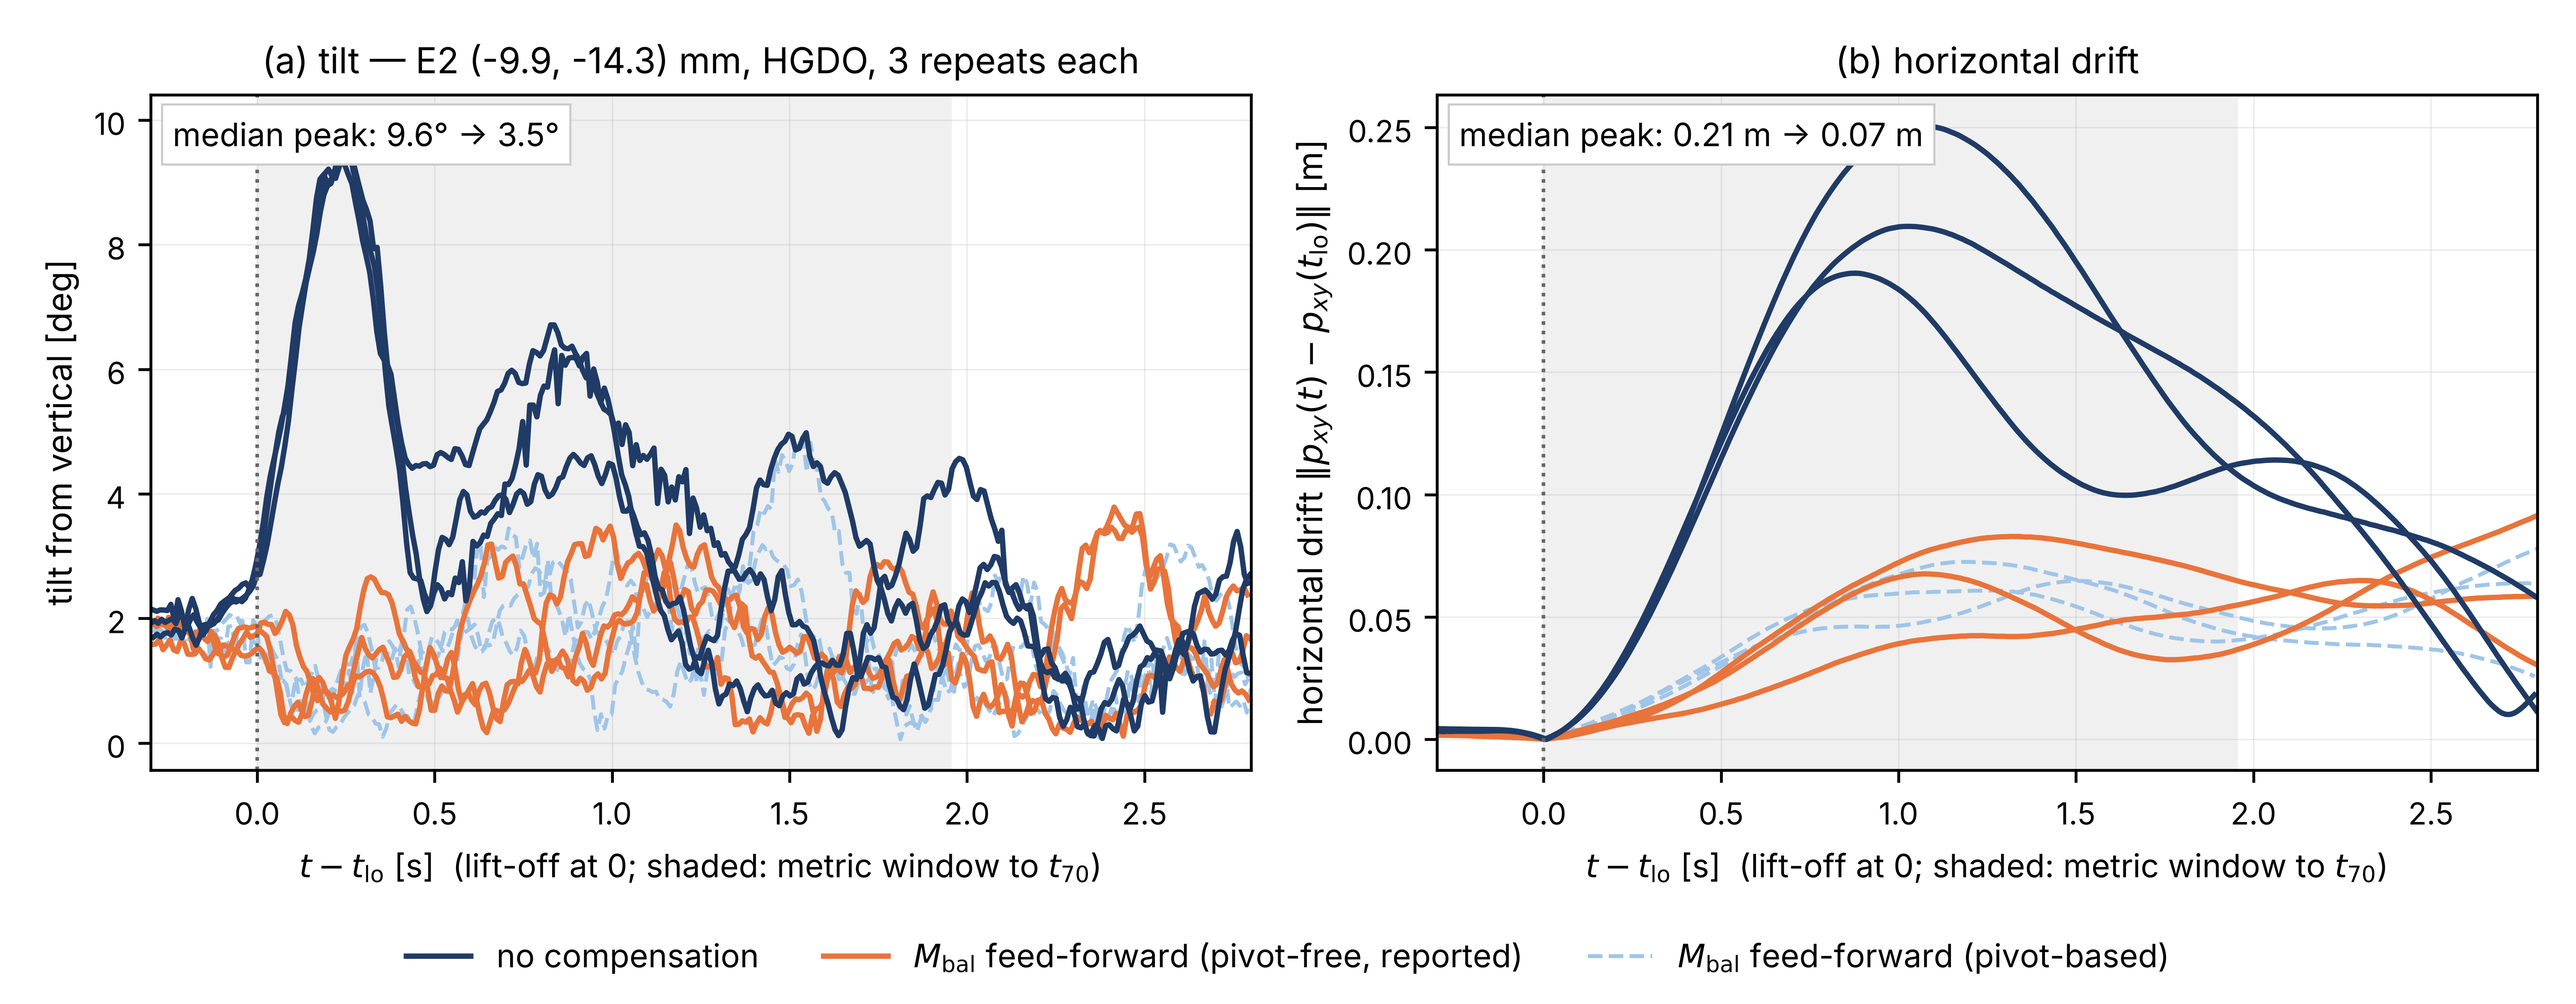
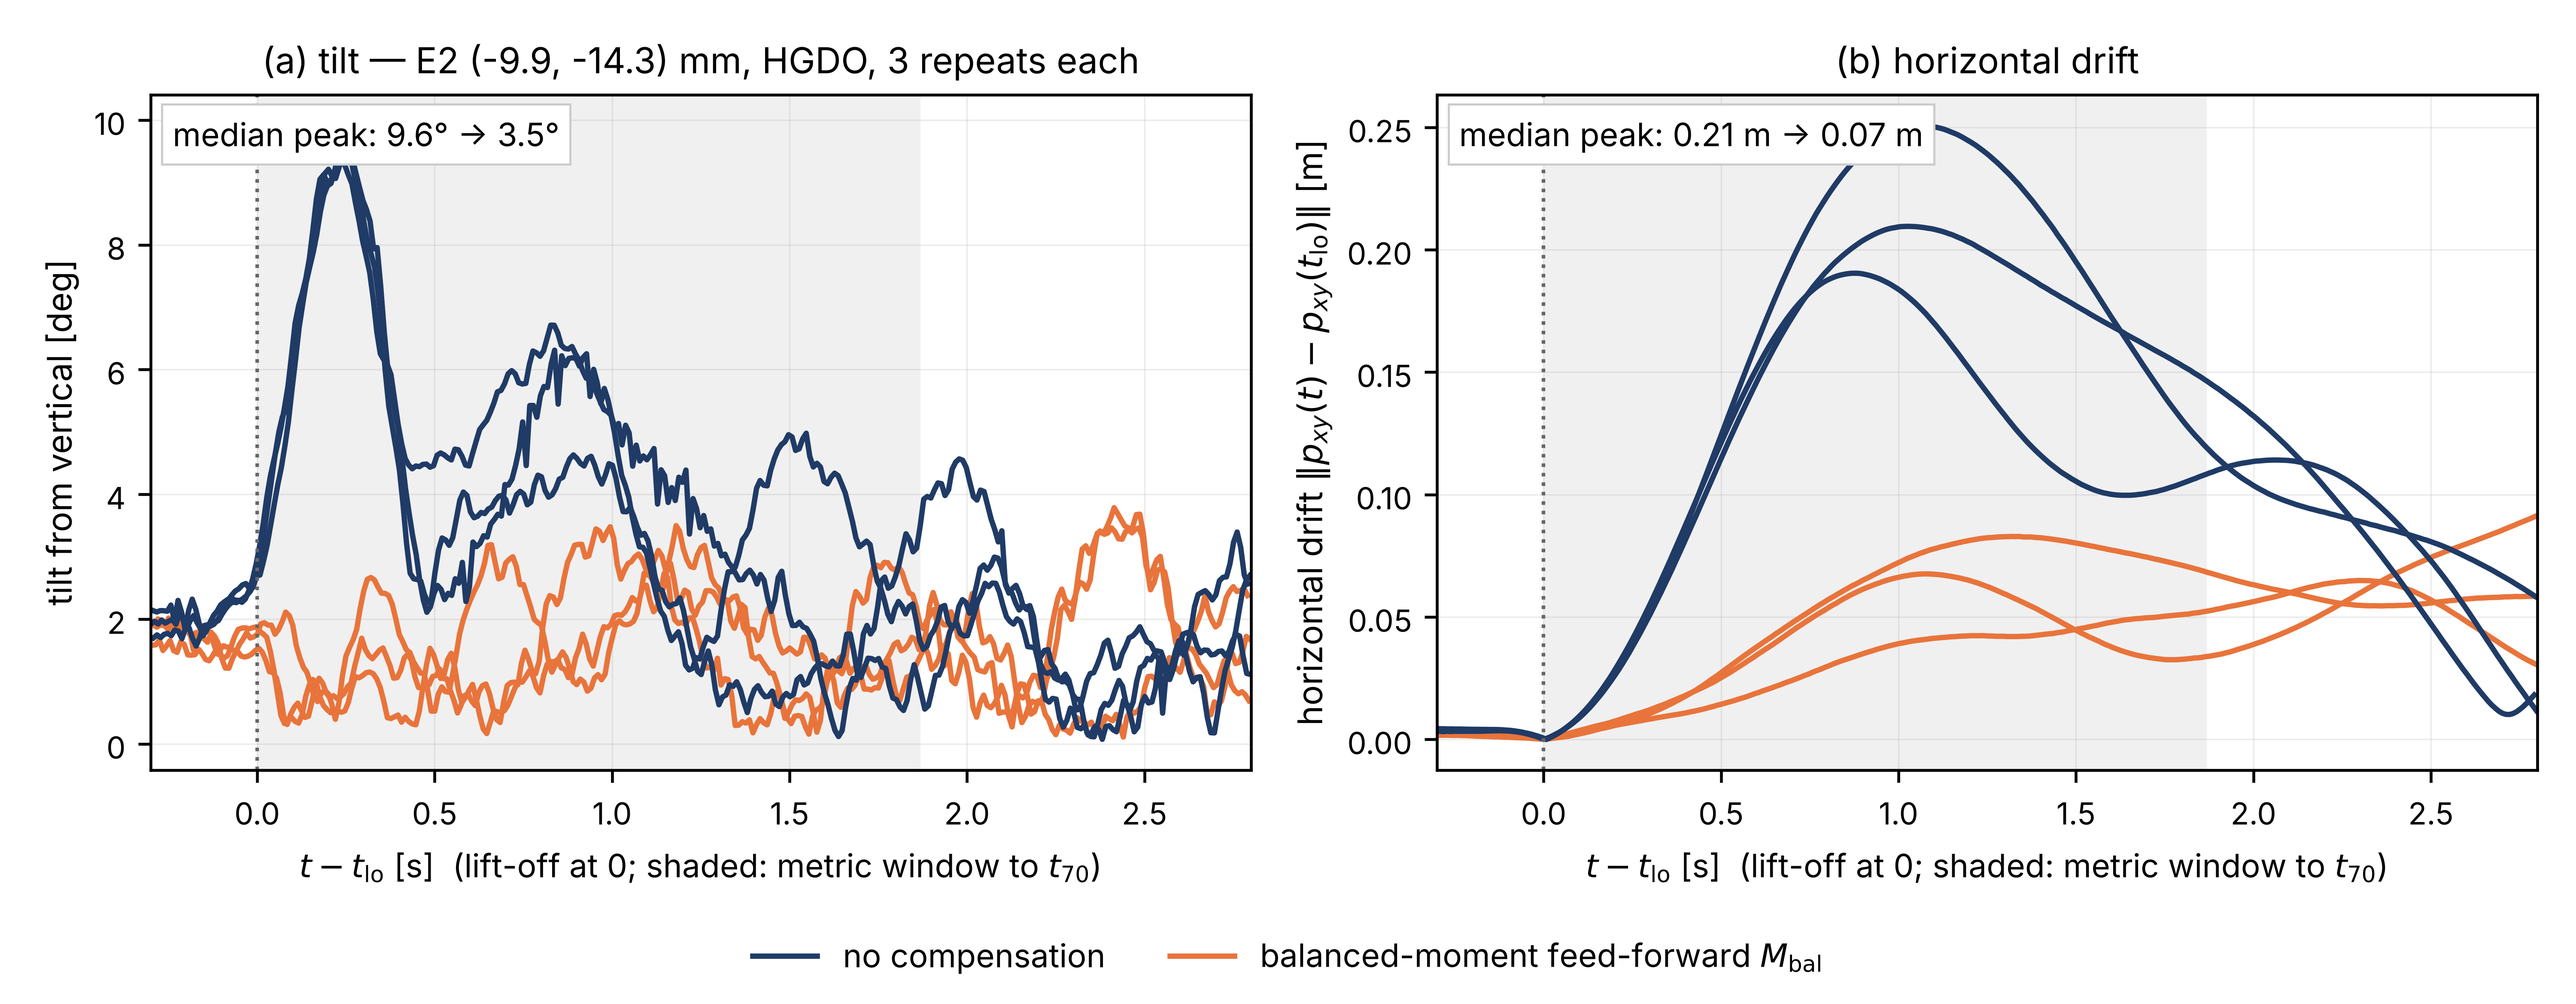
exp_takeoff_timeseries: baseline vs the reported balanced-moment feed-forward only
Claude-Session: https://claude.ai/code/session_01BM6bcsm1ZtLtgegEeuFDVS

diff --git a/analysis/freeflight_timeseries_figure.py b/analysis/freeflight_timeseries_figure.py
@@ -1,7 +1,7 @@
 #!/usr/bin/env python3
 """Take-off time histories of one hardware case: tilt and horizontal
 drift against time from lift-off, with and without the balanced-moment
-feed-forward.
+feed-forward (the reported, pivot-free M_bal of the paper).
 
 Same definitions as analysis/freeflight_metrics.py: t_lo is the instant
 the rotor-speed thrust first carries the weight, tilt is the angle
@@ -27,8 +27,8 @@ sys.path.insert(0, os.path.dirname(os.path.abspath(__file__)))
 import freeflight_metrics as fm                       # noqa: E402
 
 STYLE = {'wo_ff': dict(color='#1f3b66', lw=1.5, label='no compensation'),
-         'ff_pivot_free': dict(color='#e8743b', lw=1.5, label=r'$M_{\mathrm{bal}}$ feed-forward (pivot-free, reported)'),
-         'ff_pivot_based': dict(color='#9fc5e8', lw=1.1, ls='--', label=r'$M_{\mathrm{bal}}$ feed-forward (pivot-based)')}
+         'ff_pivot_free': dict(color='#e8743b', lw=1.5, label=r'balanced-moment feed-forward $M_{\mathrm{bal}}$')}
+VARIANTS = ('ff_pivot_free', 'wo_ff')              # the reported feed-forward and the baseline
 T0, T1 = -0.3, 2.8                                     # s around lift-off
 
 
@@ -58,7 +58,7 @@ def main():
     fig, (A, B) = plt.subplots(1, 2, figsize=(10.0, 3.9))
     win = []
     peaks = {}
-    for var in ('ff_pivot_based', 'ff_pivot_free', 'wo_ff'):
+    for var in VARIANTS:
         files = sorted(glob.glob(f'DataSet/free_flight/{case}/{ctrl}/{var}*.npz'))
         st = dict(STYLE[var])
         lab = st.pop('label')
@@ -87,8 +87,8 @@ def main():
     A.set_title(f'(a) tilt — E{int(case)} ({x:+.1f}, {y:+.1f}) mm, {ctrl.upper()}, 3 repeats each', fontsize=10)
     B.set_title('(b) horizontal drift', fontsize=10)
     hdl, lab = A.get_legend_handles_labels()
-    order = [lab.index(STYLE[v]['label']) for v in ('wo_ff', 'ff_pivot_free', 'ff_pivot_based')]
-    fig.legend([hdl[i] for i in order], [lab[i] for i in order], loc='lower center', ncol=3,
+    order = [lab.index(STYLE[v]['label']) for v in ('wo_ff', 'ff_pivot_free')]
+    fig.legend([hdl[i] for i in order], [lab[i] for i in order], loc='lower center', ncol=2,
                fontsize=9, frameon=False, bbox_to_anchor=(0.5, 0.0))
     u, c = peaks['wo_ff'], peaks['ff_pivot_free']
     A.text(0.02, 0.97, f'median peak: {u[0]:.1f}° → {c[0]:.1f}°', transform=A.transAxes, fontsize=9,
